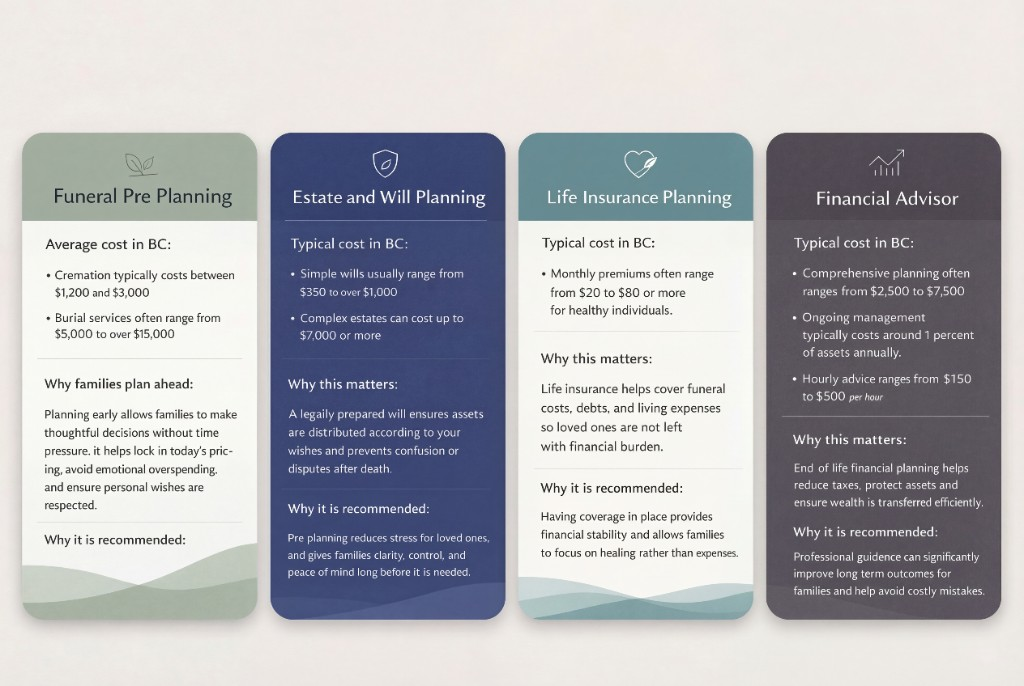
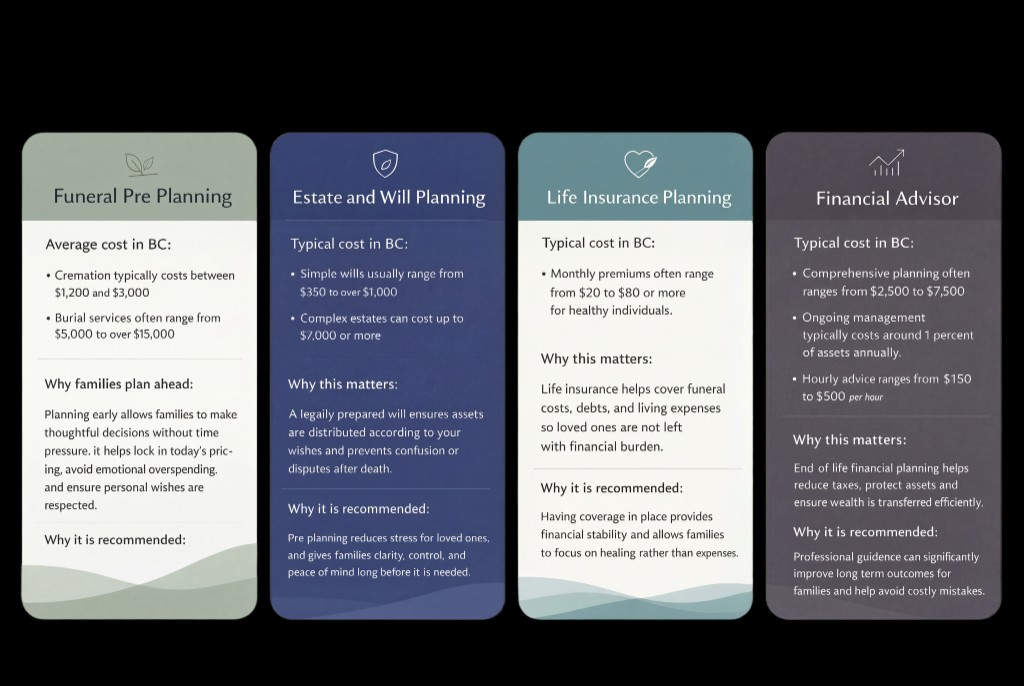
Replace infographic with transparent version and improve image quality settings

diff --git a/src/app/page-client.tsx b/src/app/page-client.tsx
@@ -530,18 +530,19 @@ export default function HomePageClient({ initialLocation }: HomePageClientProps)
         </div>
       </div>
 
-      {/* PLANNING TYPES INFOGRAPHIC */}
+      {/* PLANNING TYPES INFOGRAPHIC – use 2x PNG with transparent BG for best quality */}
       <section className="min-h-[75vh] flex items-center justify-center py-12 md:py-16 px-4 bg-[#FAF9F6]">
         <div className="w-full max-w-6xl flex items-center justify-center">
           <Image
             src="/planning-types-infographic.png"
             alt="Funeral Pre Planning, Estate and Will Planning, Life Insurance Planning, and Financial Advisor – typical costs and why it matters"
-            width={1200}
-            height={800}
+            width={1024}
+            height={686}
             className="w-full max-w-5xl h-auto object-contain"
             loading="lazy"
             sizes="(max-width: 768px) 100vw, 1024px"
-            priority={false}
+            quality={100}
+            unoptimized
           />
         </div>
       </section>
